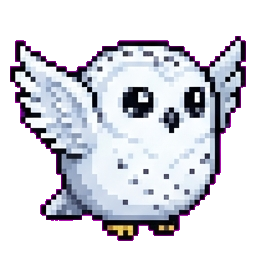
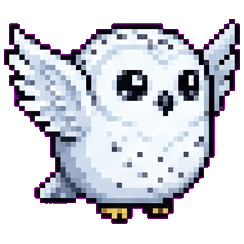
fix: apply 1:1 square tight-crop to all pet assets for equal scaling size

diff --git a/setup_assets.py b/setup_assets.py
@@ -18,6 +18,26 @@ def remove_magenta_bg(img):
     img.putdata(new_data)
     return img
 
+def make_square_tight_crop(img, padding=4):
+    """
+    이미지 투명 여백을 바짝 잘라내고(Bounding Box), 
+    1:1 정방형 정사각형 캔버스 정중앙에 배치하여 펫 크기를 1:1로 맞춥니다.
+    """
+    bbox = img.getbbox()
+    if not bbox:
+        return img
+    cropped = img.crop(bbox)
+    
+    cw, ch = cropped.size
+    max_dim = max(cw, ch) + (padding * 2)
+    
+    # 1:1 정방형 정사각형 캔버스 생성
+    square_img = Image.new("RGBA", (max_dim, max_dim), (255, 255, 255, 0))
+    offset_x = (max_dim - cw) // 2
+    offset_y = (max_dim - ch) // 2
+    square_img.paste(cropped, (offset_x, offset_y))
+    return square_img
+
 def setup_all_assets():
     base_dir = os.path.dirname(__file__)
     
@@ -42,19 +62,17 @@ def setup_all_assets():
         
         for c in range(cols):
             box = (c * fw, 2 * fh, (c + 1) * fw, 3 * fh)
-            frame = img.crop(box)
+            frame = make_square_tight_crop(img.crop(box))
             frame.save(os.path.join(owl_walk, f"walk_{c}.png"), "PNG")
             
-        idle_frame = img.crop((0, 0, fw, fh))
+        idle_frame = make_square_tight_crop(img.crop((0, 0, fw, fh)))
         idle_frame.save(os.path.join(owl_idle, "idle_0.png"), "PNG")
         
     if os.path.exists(drag_img_path):
-        d_img = remove_magenta_bg(Image.open(drag_img_path))
+        d_img = make_square_tight_crop(remove_magenta_bg(Image.open(drag_img_path)))
         d_img.save(os.path.join(owl_drag, "drag_0.png"), "PNG")
-        
-    print("[OK] Cute Owl assets generated!")
 
-    # --- 2. 🧀 치즈태비 고양이 세팅 ---
+    # --- 2. 🧀 치즈태비 고양이 세팅 (1:1 캔버스 맞춤 적용) ---
     cat_base = os.path.join(base_dir, "assets", "cat_cheese")
     cat_walk = os.path.join(cat_base, "walk")
     cat_drag = os.path.join(cat_base, "drag")
@@ -81,10 +99,12 @@ def setup_all_assets():
         w, h = c_img.size
         fw = w // 4
         for i in range(4):
-            frame = c_img.crop((i * fw, 0, (i + 1) * fw, h))
+            raw_frame = c_img.crop((i * fw, 0, (i + 1) * fw, h))
+            # 💡 여백 자르고 1:1 정방형 캔버스 정중앙 배치
+            frame = make_square_tight_crop(raw_frame)
             frame.save(os.path.join(cat_walk, f"walk_{i}.png"), "PNG")
             
-        idle_frame = c_img.crop((0, 0, fw, h))
+        idle_frame = make_square_tight_crop(c_img.crop((0, 0, fw, h)))
         idle_frame.save(os.path.join(cat_idle, "idle_0.png"), "PNG")
         
     if os.path.exists(cat_drag_path):
@@ -97,9 +117,10 @@ def setup_all_assets():
             else:
                 new_data.append(item)
         cd_img.putdata(new_data)
-        cd_img.save(os.path.join(cat_drag, "drag_0.png"), "PNG")
+        cd_frame = make_square_tight_crop(cd_img)
+        cd_frame.save(os.path.join(cat_drag, "drag_0.png"), "PNG")
         
-    print("[OK] Cheese Cat assets generated!")
+    print("[OK] All pet assets re-processed with 1:1 Square Tight-Crop!")
 
 if __name__ == "__main__":
     setup_all_assets()

diff --git a/GEMINI.md b/GEMINI.md
@@ -38,6 +38,7 @@ python main.py                # 펫 실행
 - [x] **부엉이 몸통 내부 깃털 투명화 버그 완벽 수정** (마젠타 #FF00FF 크로마키 알고리즘 적용)
 - [x] **뒷목 잡힌 전용 픽셀 프레임 (`drag.png`) 연동** (고양이 & 부엉이 전용 포즈)
 - [x] **동물 5대 표준 에셋 폴더 스펙 적용** (`walk/`, `idle/`, `drag/`, `happy/`, `special/`)
+- [x] **범용 펫 생성기 (`pet_generator.py`) 구축 및 동적 펫 스킨 스캐너 연동**
 - [x] 시스템 트레이 아이콘 메뉴 (✨ 내 앞으로 불러오기 / 📌 항상 위에 표시 / 🙈 숨기기 / ❌ 종료)
 - [x] 이미지 픽셀화 변환 모듈 (`pixelator.py`) 작성 (일반 이미지 ➡ 픽셀 펫 변환)
 
